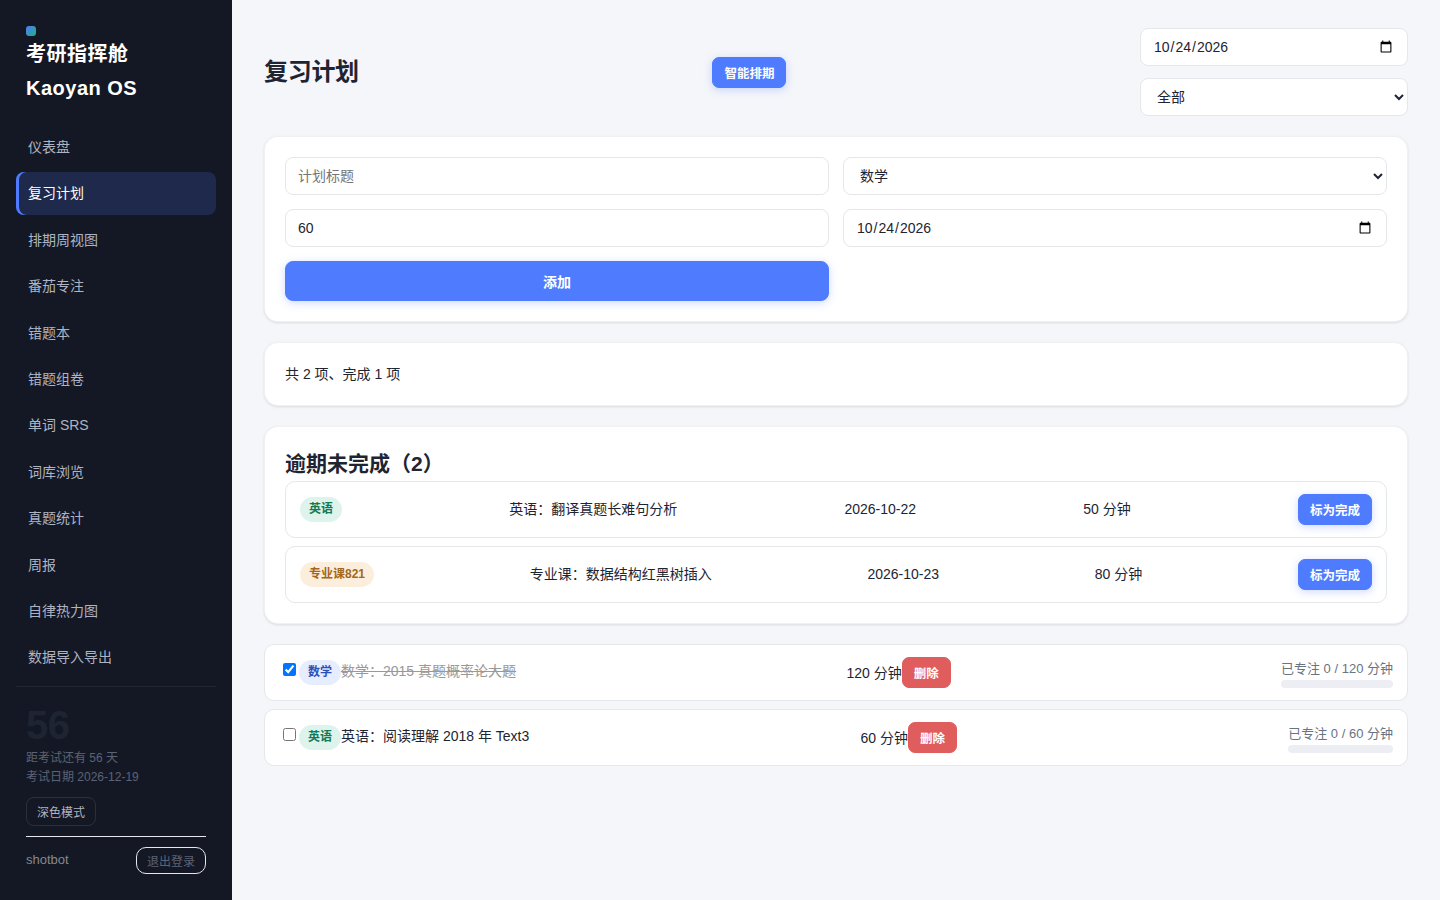
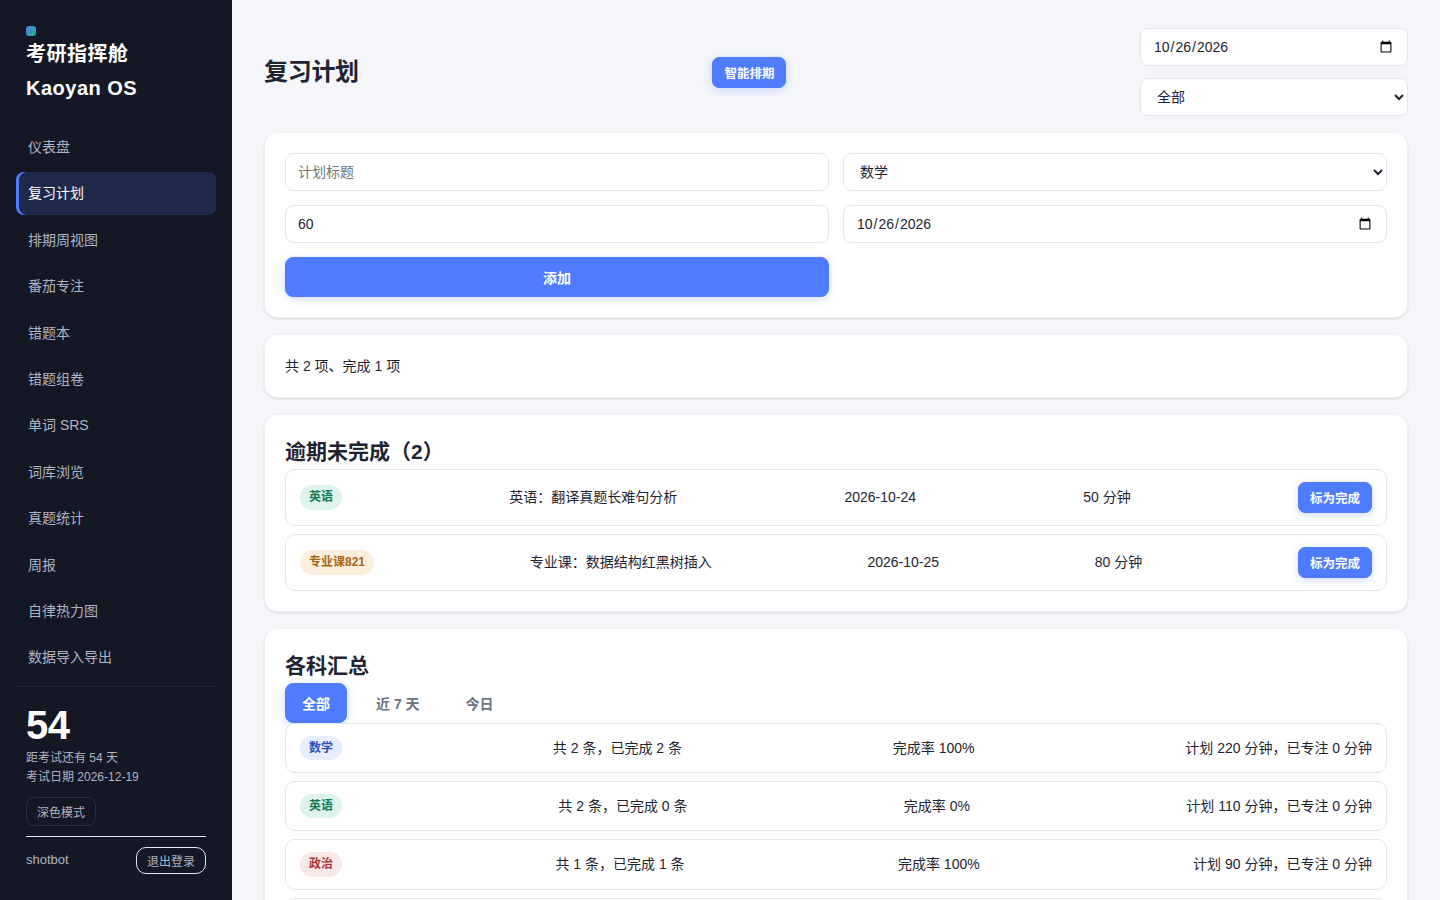
kaoyan-os v1.12.10: 计划分科汇总加 days 范围（全部/近7天/今日）

diff --git a/kaoyan-os/apps/server/tests/plans-summary-by-subject-days.test.ts b/kaoyan-os/apps/server/tests/plans-summary-by-subject-days.test.ts
@@ -1,0 +1,162 @@
+import { describe, it, expect, beforeEach, afterEach } from 'vitest'
+import Fastify, { type FastifyInstance } from 'fastify'
+import { createDb } from '../src/db'
+import { applyAuthHook, registerAuthRoutes } from '../src/auth'
+import { registerAndLogin } from './test-utils'
+import { registerPlansRoutes } from '../src/routes/plans';
+
+type PlanId = string | number;
+
+interface SubjectSummary {
+  subject: string;
+  total: number;
+  done: number;
+  plannedMinutes: number;
+}
+
+let app: FastifyInstance;
+let db: ReturnType<typeof createDb>;
+
+beforeEach(async () => {
+  db = createDb(':memory:');
+  app = Fastify();
+  applyAuthHook(app, db);
+  registerAuthRoutes(app, db);
+  registerPlansRoutes(app, db);
+  await app.ready();
+});
+
+afterEach(async () => {
+  await app.close();
+});
+
+function dateStr(daysAgo: number): string {
+  const d = new Date();
+  d.setDate(d.getDate() - daysAgo);
+  const year = d.getFullYear();
+  const month = String(d.getMonth() + 1).padStart(2, '0');
+  const day = String(d.getDate()).padStart(2, '0');
+  return `${year}-${month}-${day}`;
+}
+
+async function createPlan(
+  cookie: string,
+  payload: { date: string; subject: string; title: string; plannedMinutes: number },
+): Promise<PlanId> {
+  const res = await app.inject({
+    method: 'POST',
+    url: '/api/plans',
+    headers: { cookie },
+    payload,
+  });
+  expect(res.statusCode).toBe(201);
+  return (res.json() as { id: PlanId }).id;
+}
+
+async function markDone(cookie: string, id: PlanId): Promise<void> {
+  const res = await app.inject({
+    method: 'PATCH',
+    url: `/api/plans/${id}`,
+    headers: { cookie },
+    payload: { done: true },
+  });
+  expect(res.statusCode).toBe(200);
+}
+
+async function seedPlans(cookie: string): Promise<void> {
+  const today = dateStr(0);
+  const sixDaysAgo = dateStr(6);
+  const sevenDaysAgo = dateStr(7);
+  const fortyDaysAgo = dateStr(40);
+
+  const p1 = await createPlan(cookie, { date: today, subject: 'math', title: 'math today 1', plannedMinutes: 120 });
+  await createPlan(cookie, { date: today, subject: 'math', title: 'math today 2', plannedMinutes: 30 });
+  await createPlan(cookie, { date: today, subject: 'english', title: 'english today', plannedMinutes: 60 });
+  const p4 = await createPlan(cookie, { date: sixDaysAgo, subject: 'math', title: 'math 6d ago', plannedMinutes: 90 });
+  await createPlan(cookie, { date: sevenDaysAgo, subject: 'english', title: 'english 7d ago', plannedMinutes: 45 });
+  const p6 = await createPlan(cookie, { date: fortyDaysAgo, subject: 'math', title: 'math 40d ago', plannedMinutes: 240 });
+  await createPlan(cookie, { date: fortyDaysAgo, subject: 'english', title: 'english 40d ago', plannedMinutes: 200 });
+
+  await markDone(cookie, p1);
+  await markDone(cookie, p4);
+  await markDone(cookie, p6);
+}
+
+async function fetchSummary(cookie: string, query: string): Promise<SubjectSummary[]> {
+  const res = await app.inject({
+    method: 'GET',
+    url: `/api/plans/summary/by-subject${query}`,
+    headers: { cookie },
+  });
+  expect(res.statusCode).toBe(200);
+  const subjects = (res.json() as { subjects: SubjectSummary[] }).subjects
+  return subjects.map((s) => ({ subject: s.subject, total: s.total, done: s.done, plannedMinutes: s.plannedMinutes }))
+}
+
+describe('GET /api/plans/summary/by-subject days 参数', () => {
+  it('days=7 时排除 7 天前及更早的计划，仅统计今天与 6 天前', async () => {
+    const cookie = await registerAndLogin(app, 'plansbysubjectdays');
+    await seedPlans(cookie);
+
+    const subjects = await fetchSummary(cookie, '?days=7');
+
+    expect(subjects).toEqual([
+      { subject: 'math', total: 3, done: 2, plannedMinutes: 240 },
+      { subject: 'english', total: 1, done: 0, plannedMinutes: 60 },
+    ]);
+    expect(subjects[0].subject).toBe('math');
+    expect(subjects[1].subject).toBe('english');
+  });
+
+  it('days=1 时只统计今天的计划', async () => {
+    const cookie = await registerAndLogin(app, 'plansbysubjectdays');
+    await seedPlans(cookie);
+
+    const subjects = await fetchSummary(cookie, '?days=1');
+
+    expect(subjects).toEqual([
+      { subject: 'math', total: 2, done: 1, plannedMinutes: 150 },
+      { subject: 'english', total: 1, done: 0, plannedMinutes: 60 },
+    ]);
+    expect(subjects[0].subject).toBe('math');
+    expect(subjects[1].subject).toBe('english');
+  });
+
+  it('days 超过 31 时钳制为 31（40 天前排除、6 天前保留，days=100 与 days=31 结果相同）', async () => {
+    const cookie = await registerAndLogin(app, 'plansbysubjectdays');
+    await seedPlans(cookie);
+
+    const subjects100 = await fetchSummary(cookie, '?days=100');
+    expect(subjects100).toEqual([
+      { subject: 'math', total: 3, done: 2, plannedMinutes: 240 },
+      { subject: 'english', total: 2, done: 0, plannedMinutes: 105 },
+    ]);
+    expect(subjects100[0].subject).toBe('math');
+    expect(subjects100[1].subject).toBe('english');
+
+    const subjects31 = await fetchSummary(cookie, '?days=31');
+    expect(subjects31).toEqual(subjects100);
+  });
+
+  it('days 非法（abc）时视为全部历史，40 天前的计划也计入', async () => {
+    const cookie = await registerAndLogin(app, 'plansbysubjectdays');
+    await seedPlans(cookie);
+
+    const subjects = await fetchSummary(cookie, '?days=abc');
+
+    expect(subjects).toEqual([
+      { subject: 'math', total: 4, done: 3, plannedMinutes: 480 },
+      { subject: 'english', total: 3, done: 0, plannedMinutes: 305 },
+    ]);
+    expect(subjects[0].subject).toBe('math');
+    expect(subjects[1].subject).toBe('english');
+  });
+
+  it('未登录访问返回 401', async () => {
+    const res = await app.inject({
+      method: 'GET',
+      url: '/api/plans/summary/by-subject?days=7',
+    });
+    expect(res.statusCode).toBe(401);
+  });
+});

diff --git a/kaoyan-os/apps/server/src/routes/plans.ts b/kaoyan-os/apps/server/src/routes/plans.ts
@@ -227,14 +227,29 @@ export function registerPlansRoutes(app: FastifyInstance, db: DatabaseSync): voi
   });
 
   // 计划分科汇总：仅返回有计划的科目，按 SUBJECTS 顺序排列
+  // 可选 days：合法数字时仅统计最近 N 天（含今天，按计划 date 界定），N 钳制到 1~31；不传或非法时统计全部历史
   app.get('/api/plans/summary/by-subject', async (req, reply) => {
+    const rawDays = (req.query as { days?: string }).days;
+    const parsedDays = Number(rawDays);
+    const days =
+      rawDays !== undefined && rawDays !== '' && Number.isFinite(parsedDays)
+        ? Math.max(1, Math.min(31, Math.trunc(parsedDays)))
+        : null;
+    const today = todayStr();
+    const rangeStart = days === null ? null : addDays(today, -(days - 1));
+    const planDateCond = rangeStart === null ? '' : ' AND date >= ?';
+    const focusDateCond = rangeStart === null ? '' : ' AND p.date >= ?';
+    const bindParams: unknown[] = [req.user!.id];
+    if (rangeStart !== null) bindParams.push(rangeStart);
     const planRows = db
       .prepare(
         'SELECT subject, COUNT(*) AS total, COALESCE(SUM(done), 0) AS done, ' +
           'COALESCE(SUM(planned_minutes), 0) AS planned_minutes ' +
-          'FROM plans WHERE user_id = ? GROUP BY subject',
+          'FROM plans WHERE user_id = ?' +
+          planDateCond +
+          ' GROUP BY subject',
       )
-      .all(req.user!.id) as unknown as Array<{
+      .all(...(bindParams as never[])) as unknown as Array<{
       subject: string;
       total: number;
       done: number;
@@ -244,9 +259,11 @@ export function registerPlansRoutes(app: FastifyInstance, db: DatabaseSync): voi
       .prepare(
         'SELECT p.subject AS subject, COALESCE(SUM(f.minutes), 0) AS actual_minutes ' +
           'FROM plans p LEFT JOIN focus_sessions f ON f.plan_id = p.id AND f.user_id = p.user_id ' +
-          'WHERE p.user_id = ? GROUP BY p.subject',
+          'WHERE p.user_id = ?' +
+          focusDateCond +
+          ' GROUP BY p.subject',
       )
-      .all(req.user!.id) as unknown as Array<{ subject: string; actual_minutes: number }>;
+      .all(...(bindParams as never[])) as unknown as Array<{ subject: string; actual_minutes: number }>;
     const planMap = new Map(planRows.map((r) => [r.subject, r]));
     const focusMap = new Map(focusRows.map((r) => [r.subject, Number(r.actual_minutes)]));
     const subjects: PlanSubjectSummary[] = [];

diff --git a/kaoyan-os/apps/web/src/pages/Plans.tsx b/kaoyan-os/apps/web/src/pages/Plans.tsx
@@ -39,6 +39,7 @@ export default function Plans() {
   const [summary, setSummary] = useState<PlanSummary | null>(null);
   const [overdue, setOverdue] = useState<OverduePlansResponse | null>(null);
   const [bySubject, setBySubject] = useState<PlansBySubjectResponse | null>(null);
+  const [bySubjectWindow, setBySubjectWindow] = useState<'all' | '7' | '1'>('all');
   const [loading, setLoading] = useState<boolean>(false);
   const [error, setError] = useState<string>('');
 
@@ -122,7 +123,7 @@ export default function Plans() {
         api.listPlans(params),
         api.planSummary(date),
         api.overduePlans(),
-        api.plansBySubject(),
+        api.plansBySubject(bySubjectWindow === 'all' ? undefined : Number(bySubjectWindow)),
       ]);
       setPlans(list);
       setSummary(sum);
@@ -133,7 +134,7 @@ export default function Plans() {
     } finally {
       setLoading(false);
     }
-  }, [date, subjectFilter]);
+  }, [date, subjectFilter, bySubjectWindow]);
 
   useEffect(() => {
     void loadList();
@@ -300,6 +301,29 @@ export default function Plans() {
       {bySubject && bySubject.subjects.length > 0 && (
         <div className="card plans-bysubject-card">
           <h2>各科汇总</h2>
+          <div className="form-row">
+            <button
+              type="button"
+              className={bySubjectWindow === 'all' ? 'btn btn-primary' : 'btn btn-ghost'}
+              onClick={() => setBySubjectWindow('all')}
+            >
+              全部
+            </button>
+            <button
+              type="button"
+              className={bySubjectWindow === '7' ? 'btn btn-primary' : 'btn btn-ghost'}
+              onClick={() => setBySubjectWindow('7')}
+            >
+              近 7 天
+            </button>
+            <button
+              type="button"
+              className={bySubjectWindow === '1' ? 'btn btn-primary' : 'btn btn-ghost'}
+              onClick={() => setBySubjectWindow('1')}
+            >
+              今日
+            </button>
+          </div>
           <ul className="list plans-bysubject-list">
             {bySubject.subjects.map((s) => (
               <li className="list-item plans-bysubject-item" key={s.subject}>

diff --git a/kaoyan-os/apps/web/src/api.ts b/kaoyan-os/apps/web/src/api.ts
@@ -164,8 +164,8 @@ export const api = {
     request<PlanSummary>(`/plans/summary${qs({ date })}`),
   overduePlans: () =>
     request<OverduePlansResponse>('/plans/overdue'),
-  plansBySubject: () =>
-    request<PlansBySubjectResponse>('/plans/summary/by-subject'),
+  plansBySubject: (days?: number) =>
+    request<PlansBySubjectResponse>(`/plans/summary/by-subject${qs({ days })}`),
   createPlan: (input: CreatePlanInput) =>
     request<Plan>('/plans', { method: 'POST', body: JSON.stringify(input) }),
   updatePlan: (id: number, patch: UpdatePlanInput) =>

diff --git a/kaoyan-os/CHANGELOG.md b/kaoyan-os/CHANGELOG.md
@@ -4,6 +4,14 @@
 
 格式遵循 [Keep a Changelog](https://keepachangelog.com/zh-CN/1.1.0/)。
 
+## [1.12.10] - 2026-10-26
+
+### Added
+
+- 后端 GET /api/plans/summary/by-subject 新增可选 days 参数：合法数字时只统计最近 N 天（含今天，按计划 date 界定），N 按 1~31 钳制；不传或非法时统计全部历史，与专注分科汇总 days 口径一致；专注分钟随计划走（窗口内计划的专注分钟计入，不另按专注开始时间过滤）。
+- 前端计划页「各科汇总」卡片新增范围切换：全部 / 近 7 天 / 今日，切换即按窗口重拉分科汇总（复用既有 card/form-row/btn 样式，无新增 CSS；api 方法仍为同一个 plansBySubject，数量快照 54 不变）。
+- 新增 tests/plans-summary-by-subject-days.test.ts 5 例：days=7 排除 7 天前及更早、days=1 只含今天、days 超 31 钳制且 days=100 与 days=31 结果相同、非法 days 视为全部历史、未登录 401。
+
 ## [1.12.9] - 2026-10-26
 
 ### Added

diff --git a/kaoyan-os/docs/API.md b/kaoyan-os/docs/API.md
@@ -225,7 +225,7 @@
 | --- | --- | --- |
 | GET | /api/plans/summary/by-subject | 需登录 |
 
-返回当前用户的计划分科汇总（全量，不按日期过滤）。
+返回当前用户的计划分科汇总。可选查询参数 days：合法数字时只统计最近 N 天（含今天，按计划 date 界定），N 按 1~31 钳制；不传或非法时统计全部历史（与 GET /api/focus/summary/by-subject 的 days 口径一致）。
 
 - 仅返回有计划的科目。
 - 按 SUBJECTS 顺序排列：math、english、politics、major。
